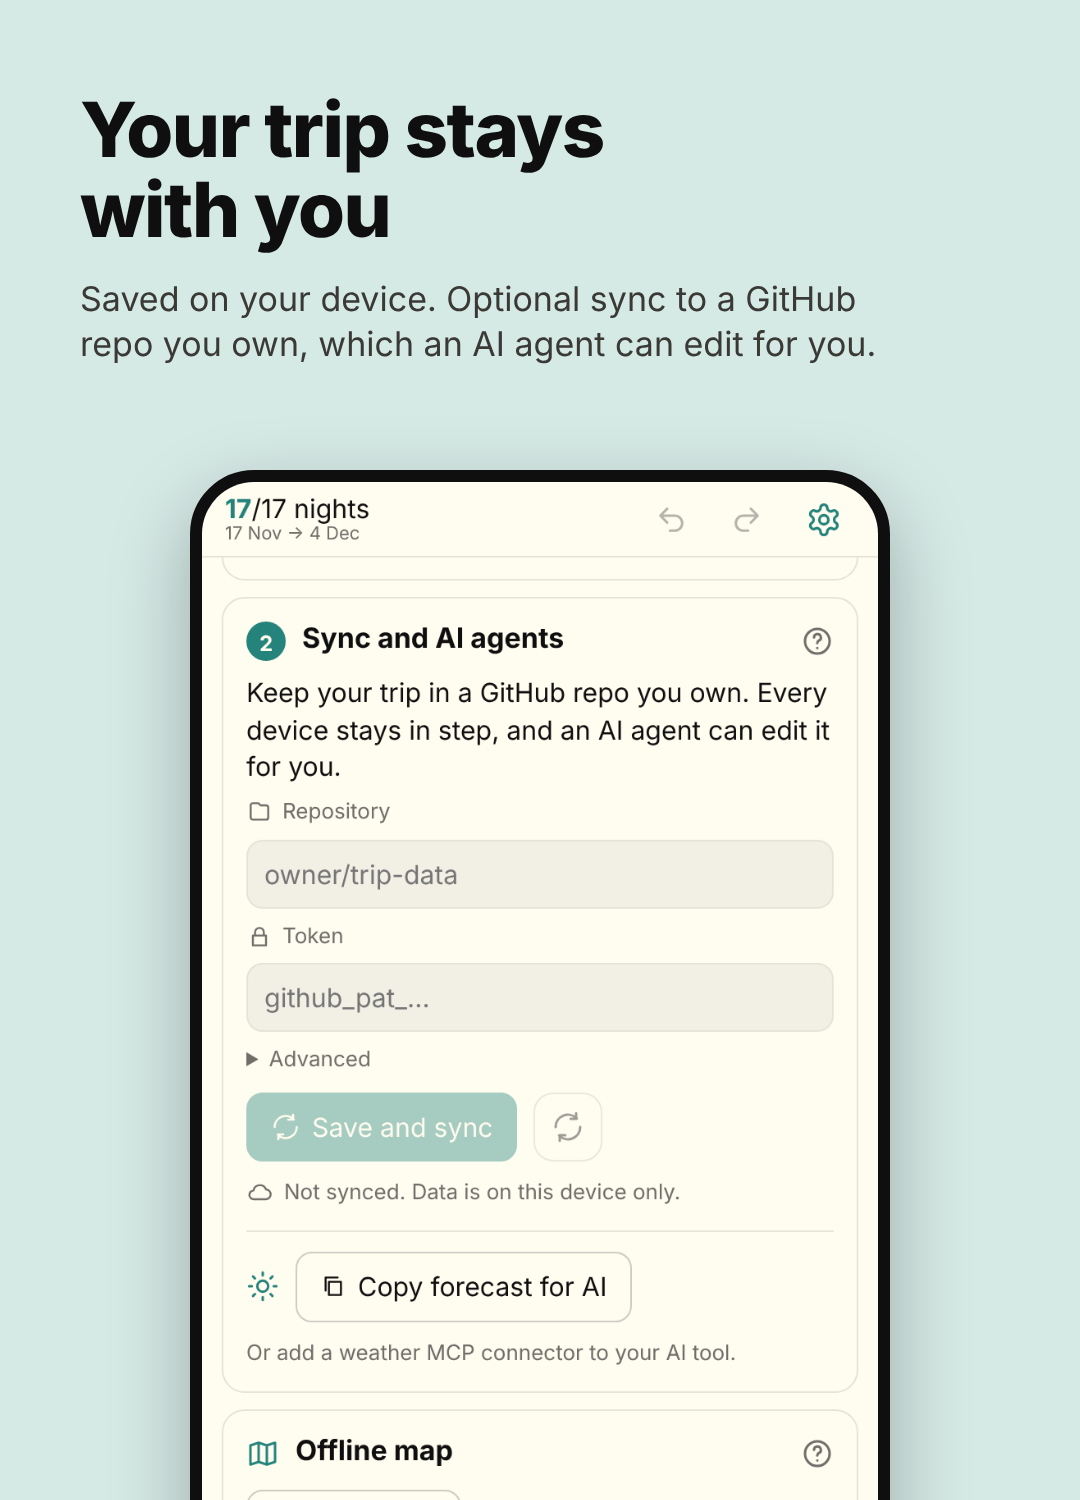
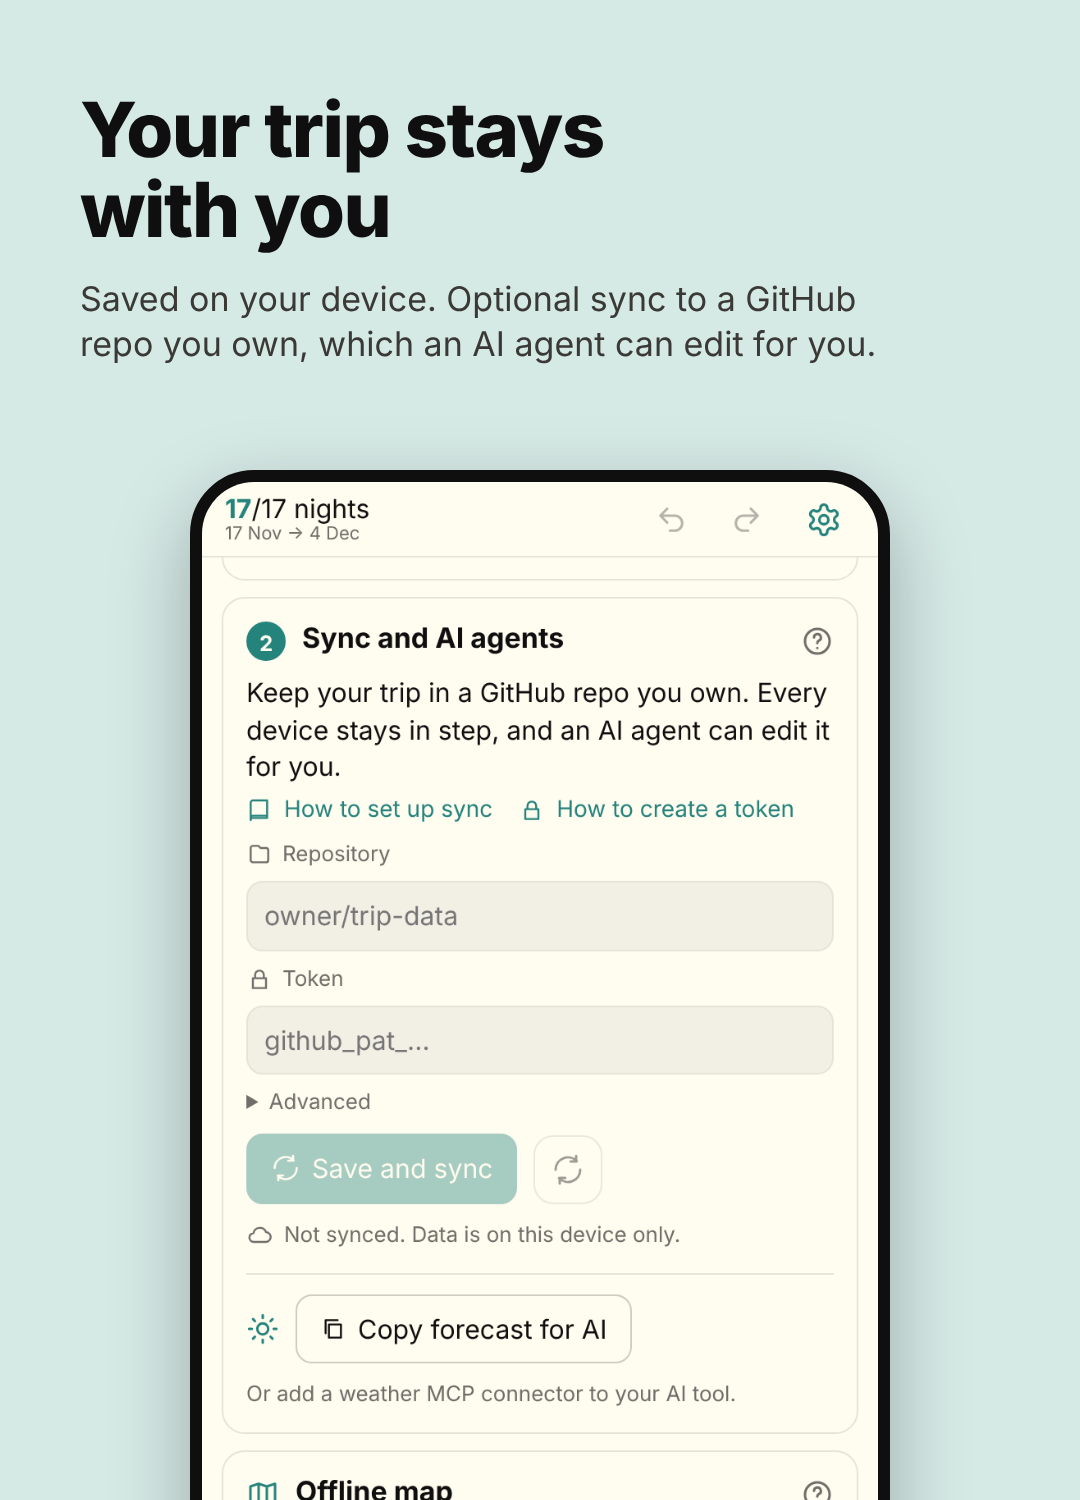
Settings: show sync guide and token links in the sync step
Claude-Session: https://claude.ai/code/session_0123F2NTTHujuyA3cB7NVuK6

Changed region(s): [[0.2139, 0.5213, 0.6722, 1.0], [0.4889, 0.5213, 0.7333, 0.552], [0.7333, 0.9507, 0.7639, 1.0]]

diff --git a/src/views/Settings.tsx b/src/views/Settings.tsx
@@ -106,13 +106,13 @@ export function Settings() {
         hint={<>
           Your trip is saved to a <b>private</b> GitHub repo that you own, using a token limited to that one repo (permission: Contents, read and write). The token stays on this device.
           An AI coding agent such as Claude Code can edit the same repo, so you can ask it to change your plan.
-          <div className="links">
-            <a href={BRAND.tokenGuide} target="_blank" rel="noreferrer">How to create a token</a>
-            <a href={BRAND.syncGuide} target="_blank" rel="noreferrer">Full guide</a>
-          </div>
         </>}
       >
         <p className="lead">Keep your trip in a GitHub repo you own. Every device stays in step, and an AI agent can edit it for you.</p>
+        <div className="guidelinks">
+          <a className="ibtn" href={BRAND.syncGuide} target="_blank" rel="noreferrer"><Icon name="book" size={16} /> How to set up sync</a>
+          <a className="ibtn" href={BRAND.tokenGuide} target="_blank" rel="noreferrer"><Icon name="lock" size={16} /> How to create a token</a>
+        </div>
         <label className="fld"><span className="fl"><Icon name="repo" size={16} /> Repository</span>
           <input value={c.repo} onChange={set('repo')} placeholder="owner/trip-data" autoCapitalize="none" autoCorrect="off" />
         </label>

diff --git a/src/styles.css b/src/styles.css
@@ -238,3 +238,4 @@ html.lock, html.lock body { overflow: hidden; height: 100%; min-height: 0; overs
 .foot { margin: 18px 4px 6px; font-size: 12.5px; line-height: 1.5; color: var(--muted); } .foot p { margin: 0 0 8px; } .foot a, .hint a, .small a { color: var(--accent); }
 .fab { position: fixed; z-index: 1500; left: 12px; bottom: calc(var(--th) + var(--sab) + 12px); width: 48px; height: 48px; border-radius: 50%; display: grid; place-items: center; padding: 0; box-shadow: 0 1px 6px #0004; }
 .fab.on { background: var(--accent); color: var(--accent-ink); border-color: var(--accent); }
+.guidelinks { display: flex; flex-wrap: wrap; gap: 6px 16px; font-size: 14px; margin: 2px 0 4px; } .guidelinks a { color: var(--accent); text-decoration: none; }
